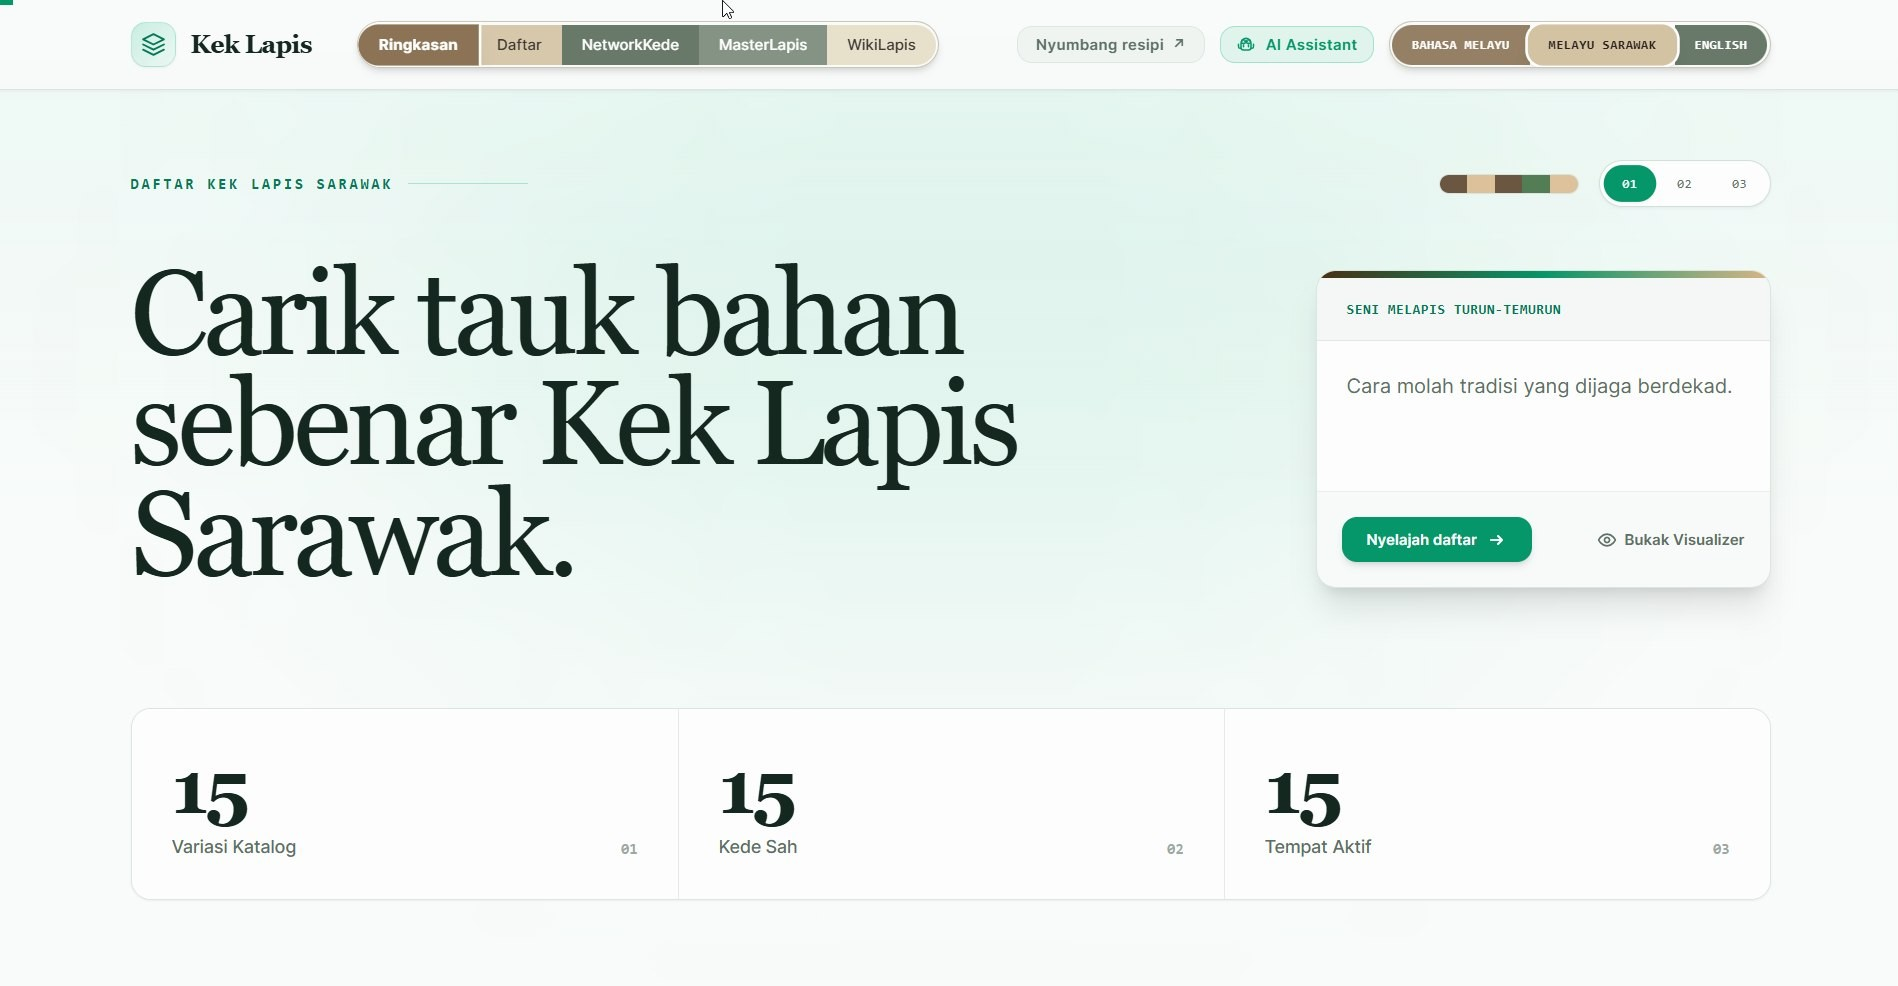
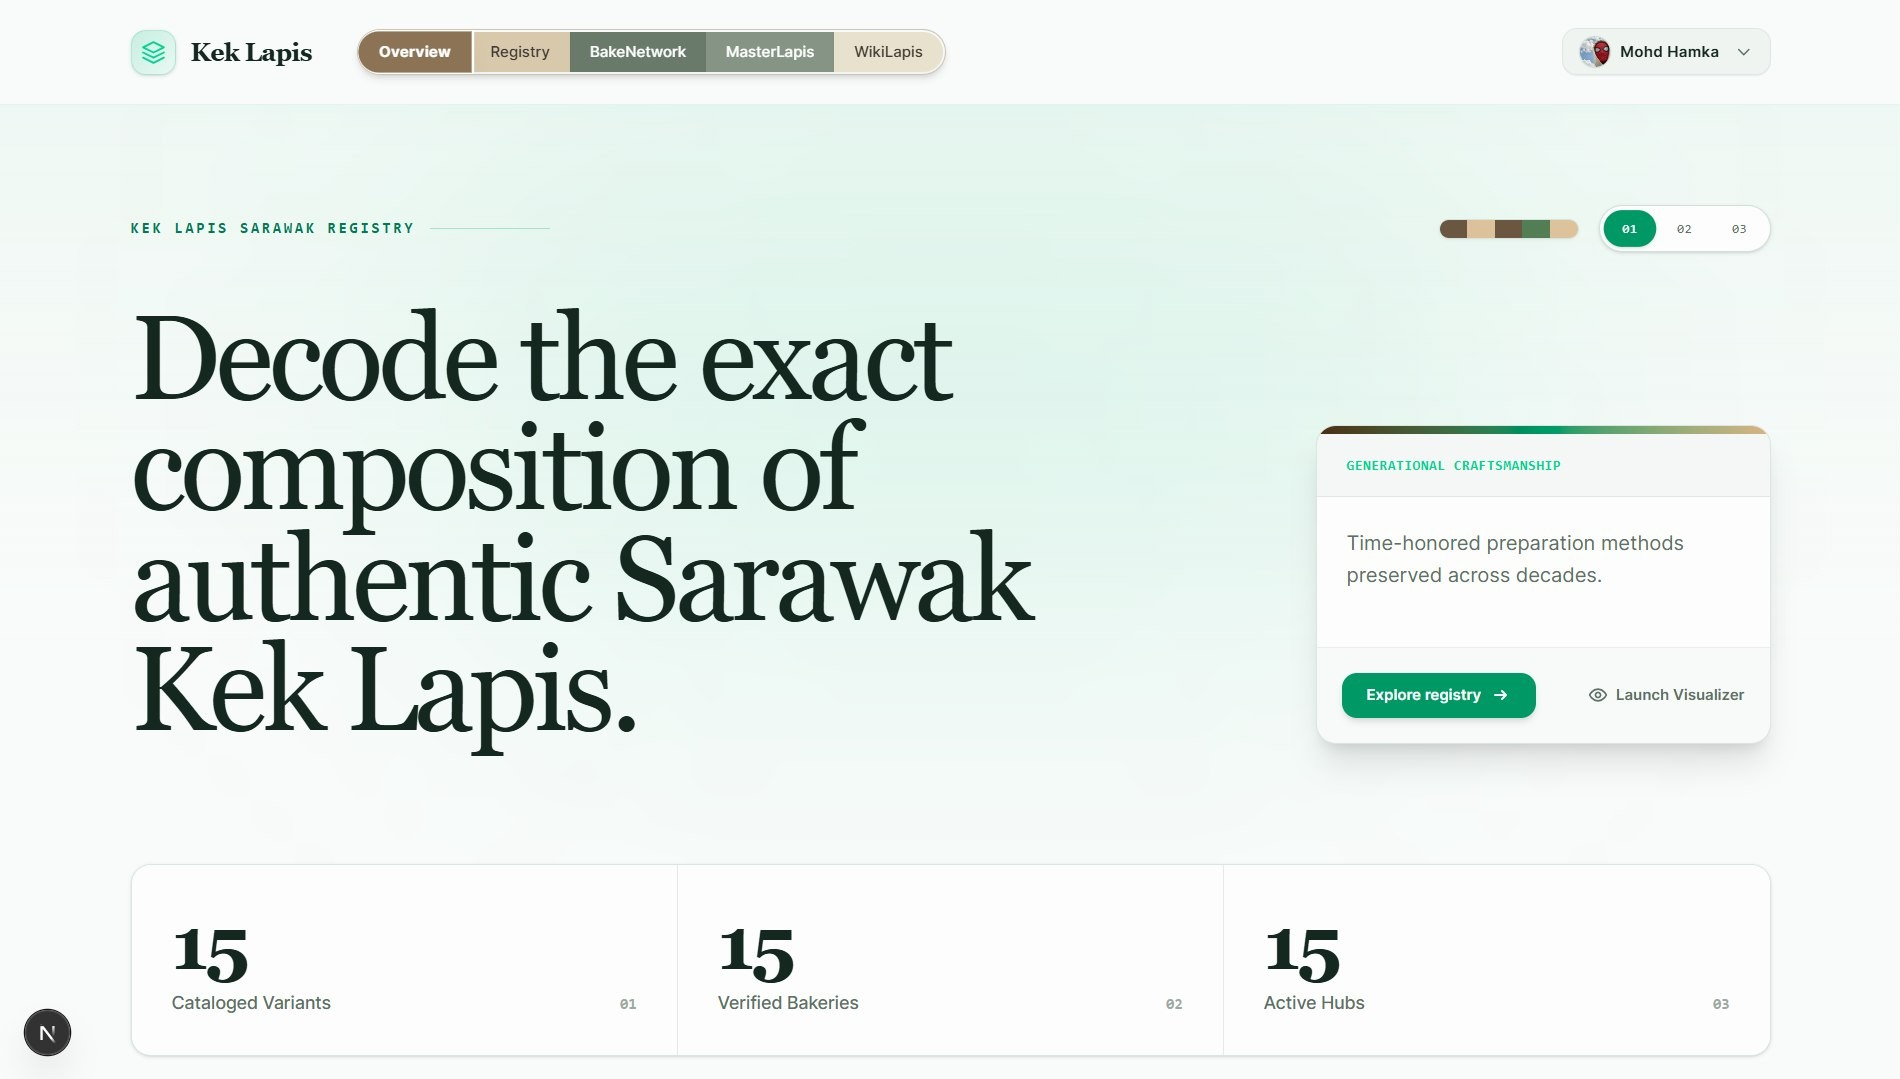
feat(auth): add multi-provider OAuth authentication with Google and GitHub
- Integrate NextAuth with Prisma adapter and database session strategy
- Configure Google and GitHub OAuth providers with cross-account email linking support
- Add dynamic user profile synchronization to update user avatars and names based on active provider
- Enforce explicit login prompt parameter for GitHub authentication

diff --git a/components/common/navbar.tsx b/components/common/navbar.tsx
@@ -15,6 +15,7 @@ interface MainNavProps {
   user?: {
     name?: string | null
     email?: string | null
+    image?: string | null
   } | null
 }
 
@@ -138,11 +139,29 @@ export function MainNav({ initialLocale, user }: MainNavProps) {
               <button
                 type="button"
                 onClick={() => setDropdownOpen(!dropdownOpen)}
-                className="inline-flex items-center gap-2 px-4 py-2 rounded-xl bg-muted/50 hover:bg-emerald-500/10 border border-border/60 text-xs font-semibold tracking-wide text-foreground transition-all hover:border-emerald-600/40 active:scale-95 shadow-2xs group"
+                className="inline-flex items-center gap-2.5 px-3.5 py-1.5 rounded-xl bg-muted/50 hover:bg-emerald-500/10 border border-border/60 text-xs font-semibold tracking-wide text-foreground transition-all hover:border-emerald-600/40 active:scale-95 shadow-2xs group"
                 aria-expanded={dropdownOpen}
               >
-                <span>{t("menuControls")}</span>
-                <svg className={cn("w-3.5 h-3.5 text-muted-foreground transition-transform duration-200", dropdownOpen && "rotate-180")} fill="none" viewBox="0 0 24 24" stroke="currentColor">
+                {user ? (
+                  <div className="flex items-center gap-2">
+                    {user.image ? (
+                      <img
+                        src={user.image}
+                        alt={user.name || "User Avatar"}
+                        referrerPolicy="no-referrer"
+                        className="w-6 h-6 rounded-full object-cover ring-1 ring-border"
+                      />
+                    ) : (
+                      <div className="w-6 h-6 rounded-full bg-emerald-600 text-white flex items-center justify-center text-[10px] font-bold">
+                        {user.name?.[0] || user.email?.[0] || "U"}
+                      </div>
+                    )}
+                    <span className="truncate max-w-[100px]">{user.name || user.email}</span>
+                  </div>
+                ) : (
+                  <span>{t("menuControls")}</span>
+                )}
+                <svg className={cn("w-3.5 h-3.5 text-muted-foreground transition-transform duration-200 ml-0.5", dropdownOpen && "rotate-180")} fill="none" viewBox="0 0 24 24" stroke="currentColor">
                   <path strokeLinecap="round" strokeLinejoin="round" strokeWidth={2} d="M19 9l-7 7-7-7" />
                 </svg>
               </button>
@@ -150,26 +169,42 @@ export function MainNav({ initialLocale, user }: MainNavProps) {
               {dropdownOpen && (
                 <div className="absolute right-0 mt-2 w-85 rounded-2xl bg-card/95 backdrop-blur-2xl border border-border/80 shadow-2xl p-3 z-50 animate-in fade-in slide-in-from-top-2 duration-200 space-y-3">
                   
-                  {/* Authentication Section Inside Dropdown (Side-by-Side Icons) */}
+                  {/* Authentication Section Inside Dropdown (Side-by-Side Icons / User Card) */}
                   <div className="pb-2 border-b border-border/40">
                     <div className="flex items-center justify-between px-1 pb-2">
                       <span className="text-[10px] font-bold uppercase tracking-wider text-muted-foreground/70">
                         {t("authentication")}
                       </span>
-                      {user && (
-                        <span className="text-xs font-medium text-foreground truncate max-w-[120px]">
-                          {user.name || user.email}
-                        </span>
-                      )}
                     </div>
 
                     {user ? (
-                      <button
-                        onClick={() => signOut()}
-                        className="w-full rounded-xl bg-muted px-3 py-2 text-xs font-semibold text-foreground hover:bg-muted-foreground/20 transition-all text-center border border-border/50"
-                      >
-                        Sign Out
-                      </button>
+                      <div className="space-y-2">
+                        <div className="flex items-center gap-3 p-2 rounded-xl bg-muted/40 border border-border/50">
+                          {user.image ? (
+                            <img
+                              src={user.image}
+                              alt={user.name || "User Avatar"}
+                              referrerPolicy="no-referrer"
+                              className="w-9 h-9 rounded-full object-cover ring-2 ring-emerald-500/30"
+                            />
+                          ) : (
+                            <div className="w-9 h-9 rounded-full bg-emerald-600 text-white flex items-center justify-center text-xs font-bold">
+                              {user.name?.[0] || user.email?.[0] || "U"}
+                            </div>
+                          )}
+                          <div className="overflow-hidden">
+                            <p className="text-xs font-semibold text-foreground truncate">{user.name || "Authenticated User"}</p>
+                            <p className="text-[11px] text-muted-foreground truncate">{user.email}</p>
+                          </div>
+                        </div>
+
+                        <button
+                          onClick={() => signOut()}
+                          className="w-full rounded-xl bg-destructive/10 hover:bg-destructive/20 text-destructive px-3 py-2 text-xs font-semibold transition-all text-center border border-destructive/20 active:scale-95"
+                        >
+                          Sign Out
+                        </button>
+                      </div>
                     ) : (
                       <div className="grid grid-cols-2 gap-2">
                         <button

diff --git a/lib/auth.ts b/lib/auth.ts
@@ -10,13 +10,79 @@ export const { handlers, auth, signIn, signOut } = NextAuth({
     GitHub({
       clientId: process.env.AUTH_GITHUB_ID,
       clientSecret: process.env.AUTH_GITHUB_SECRET,
+      allowDangerousEmailAccountLinking: true,
+      authorization: {
+        params: {
+          prompt: "login", // Forces GitHub to check and prompt for account authorization every time
+        },
+      },
+      profile(profile) {
+        return {
+          id: String(profile.id),
+          name: profile.name || profile.login,
+          email: profile.email || `${profile.login}@users.noreply.github.com`, // Fallback if GitHub email is private
+          image: profile.avatar_url, // Maps GitHub's avatar_url to user.image
+        }
+      },
     }),
     Google({
       clientId: process.env.AUTH_GOOGLE_ID,
       clientSecret: process.env.AUTH_GOOGLE_SECRET,
+      allowDangerousEmailAccountLinking: true,
+      authorization: {
+        params: {
+          prompt: "select_account",
+          access_type: "offline",
+          response_type: "code",
+        },
+      },
+      profile(profile) {
+        return {
+          id: profile.sub,
+          name: profile.name,
+          email: profile.email,
+          image: profile.picture, // Maps Google's picture to user.image
+        }
+      },
     }),
   ],
   session: {
     strategy: "database",
+  },
+  callbacks: {
+    async signIn({ user, account, profile }) {
+      // Dynamically update the database user record with the active provider's name and image
+      if (user && account && profile) {
+        let updatedName = user.name
+        let updatedImage = user.image
+
+        if (account.provider === "github") {
+          updatedName = profile.name || (profile as any).login
+          updatedImage = (profile as any).avatar_url
+        } else if (account.provider === "google") {
+          updatedName = profile.name
+          updatedImage = (profile as any).picture
+        }
+
+        if (user.id) {
+          await db.user.update({
+            where: { id: user.id },
+            data: {
+              name: updatedName,
+              image: updatedImage,
+            },
+          })
+        }
+      }
+      return true
+    },
+    async session({ session, user }) {
+      if (session.user) {
+        session.user.id = user.id
+        session.user.image = user.image // Passes the updated database image into the active session
+        session.user.name = user.name  // Passes the updated database name/username into the active session
+      }
+      return session
+    },
   },
 })

diff --git a/components/network/regional-analytics-view.tsx b/components/network/regional-analytics-view.tsx
@@ -7,10 +7,7 @@ import {
   Building2, 
   Store, 
   MapPin, 
-  TrendingUp, 
-  Activity, 
   ChevronRight, 
-  Sparkles
 } from "lucide-react"
 
 interface RegionalAnalyticsViewProps {
@@ -183,11 +180,9 @@ export function RegionalAnalyticsView({ products }: RegionalAnalyticsViewProps) 
           <div className="p-3 rounded-2xl bg-card border border-border/60 shadow-xs space-y-2.5 hover:border-emerald-500/30 transition-colors">
             <div className="flex items-center justify-between text-[11px]">
               <span className="font-semibold text-foreground flex items-center gap-1.5">
-                <Activity className="w-3.5 h-3.5 text-emerald-600 animate-pulse" />
                 {t.has("regionalDensityMetric") ? t("regionalDensityMetric") : "Regional Density Metric"}
               </span>
               <span className="font-mono text-[10px] text-emerald-600 dark:text-emerald-400 bg-emerald-500/10 px-2 py-0.5 rounded-full font-medium flex items-center gap-1">
-                <Sparkles className="w-2.5 h-2.5" />
                 {t.has("liveFeed") ? t("liveFeed") : "Live Feed"}
               </span>
             </div>
@@ -214,7 +209,6 @@ export function RegionalAnalyticsView({ products }: RegionalAnalyticsViewProps) 
         <div className="p-3 rounded-2xl bg-card border border-border/60 shadow-xs space-y-3 animate-in fade-in-50 duration-200">
           <div className="flex items-center justify-between text-[11px] pb-1 border-b border-border/40">
             <span className="font-semibold text-foreground flex items-center gap-1.5">
-              <TrendingUp className="w-3.5 h-3.5 text-emerald-600" />
               Regional Share Distribution
             </span>
             <span className="font-mono text-[10px] text-muted-foreground">
@@ -229,7 +223,7 @@ export function RegionalAnalyticsView({ products }: RegionalAnalyticsViewProps) 
                 <div key={region} className="space-y-1">
                   <div className="flex justify-between text-[11px]">
                     <span className="font-medium text-foreground flex items-center gap-1">
-                      <span className="w-1.5 h-1.5 rounded-full bg-emerald-500" />
+                      
                       {region}
                     </span>
                     <span className="font-mono text-muted-foreground">

diff --git a/app/layout.tsx b/app/layout.tsx
@@ -7,6 +7,7 @@ import { Footer } from "@/components/common/footer"
 import { CompareProvider } from "@/components/compare/compare-store"
 import { ANALYTICS_CONFIG } from "@/lib/features"
 import { locales, type Locale } from '@/i18n/routing'
+import { auth } from "@/lib/auth"
 import './globals.css'
 
 export const metadata: Metadata = {
@@ -36,6 +37,7 @@ export default async function RootLayout({
   const messages = await getMessages()
   const common = await getTranslations('common')
   const initialLocale = (locales.includes(locale as Locale) ? locale : 'ms') as Locale
+  const session = await auth()
 
   return (
     <html lang={locale} suppressHydrationWarning>
@@ -52,7 +54,7 @@ export default async function RootLayout({
         <a href="#main-content" className="skip-link">{common('skipToContent')}</a>
         <NextIntlClientProvider messages={messages}>
           <CompareProvider>
-            <MainNav initialLocale={initialLocale} />
+            <MainNav initialLocale={initialLocale} user={session?.user} />
             {children}
             <Footer />
             <Toaster />

diff --git a/app/home-client.tsx b/app/home-client.tsx
@@ -171,9 +171,9 @@ export default function HomeClient({
       {/* Client-side reading progress bar */}
       <ProgressBar />
       
-      {/* 1. Festive Bake Day Banner */}
+      {/* 1. Festive Bake Day Banner - z-30 applied here */}
       {showBanner && (
-        <div className="relative bg-emerald-900 px-4 py-3 text-emerald-50 pr-14 shadow-md transition-all z-50">
+        <div className="relative bg-emerald-900 px-4 py-3 text-emerald-50 pr-14 shadow-md transition-all z-30">
           <p className="text-center text-xs sm:text-sm font-medium">
             <span className="mr-3 inline-flex items-center rounded-full bg-emerald-500 px-2.5 py-0.5 text-[10px] font-bold uppercase tracking-widest text-white shadow-sm animate-pulse">
               {t("banner.badge")}

diff --git a/docs/architecture.md b/docs/architecture.md
@@ -22,6 +22,8 @@
 * Images stored as files in `public/images/db/`, not inside the data store.
 * Thin wrappers over the JSON store manage products, brands, sources, manufacturers, and images with snake_case field names.
 
+---
+
 ## Project Architecture
 
 ```text
